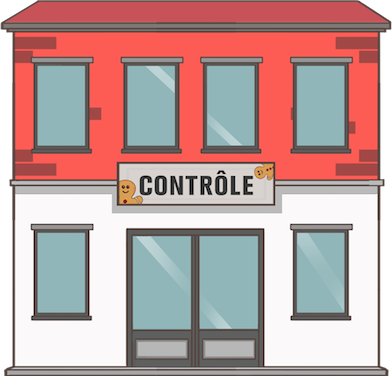
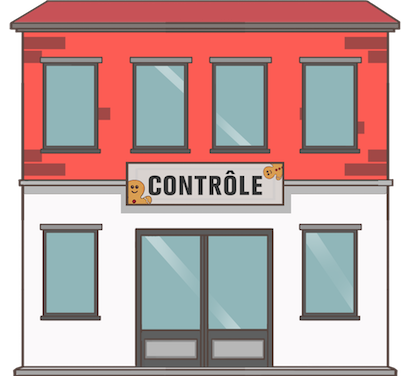
Place et déplace les batiments en fonction de l'avancée.

diff --git a/src/situations/accueil/vues/accueil.vue b/src/situations/accueil/vues/accueil.vue
@@ -6,7 +6,7 @@
     </div>
     <div
       :style="{ 'background-image': fondAccueil, 'background-position-x': position }"
-      class="acces-situations">
+      class="accueil-scene">
 
       <div
         :style="{ 'background-image': personnages }"
@@ -14,11 +14,16 @@
         :class="[deplacePersonnage]"
       ></div>
 
-      <acces-situation
-        v-for="situation in situations"
-        :key="situation.identifiant"
-        :situation="situation"
-      />
+      <div
+        :style="{ transform: `translateX(${-decalageGaucheVue(niveauActuel)}px)`}"
+        class="acces-situations">
+        <acces-situation
+          v-for="(situation, index) in situations"
+          :key="situation.identifiant"
+          :situation="situation"
+          :style="{ left: `${decalageGaucheBatiment(index)}px`}"
+         />
+      </div>
 
       <formulaire-identification :force-campagne="forceCampagne" />
     </div>
@@ -26,12 +31,17 @@
 </template>
 
 <script>
-import { mapState } from 'vuex';
+import { mapState, mapGetters } from 'vuex';
 import 'accueil/styles/accueil.scss';
 import FormulaireIdentification from './formulaire_identification';
 import AccesSituation from 'accueil/vues/acces_situation';
 import Progression from 'accueil/vues/progression';
 import BoiteUtilisateur from 'commun/vues/boite_utilisateur';
+
+const LARGEUR_SCENE = 1008;
+const LARGEUR_BATIMENT = 411;
+const DECALAGE_INITIAL = LARGEUR_SCENE / 2 - LARGEUR_BATIMENT / 2;
+const ESPACEMENT_BATIMENT = (LARGEUR_SCENE - 1.5 * LARGEUR_BATIMENT) / 2;
 
 export default {
   components: { FormulaireIdentification, AccesSituation, Progression, BoiteUtilisateur },
@@ -49,7 +59,8 @@ export default {
 
 
   computed: {
-    ...mapState(['situations', 'estConnecte'])
+    ...mapState(['situations', 'estConnecte']),
+    ...mapGetters(['niveauActuel'])
   },
 
   mounted () {
@@ -64,11 +75,19 @@ export default {
 
   methods: {
     synchroniseSituations () {
-      if(this.estConnecte) this.$store.dispatch('synchroniseSituations');
+      if (this.estConnecte) this.$store.dispatch('synchroniseSituations');
     },
 
     deplacePersonnage () {
-      if(this.$store.getters.niveauActuel > 1) return 'centre-personnage'
+      if (this.$store.getters.niveauActuel > 1) return 'centre-personnage'
+    },
+
+    decalageGaucheBatiment (index) {
+      return DECALAGE_INITIAL + index * (LARGEUR_BATIMENT + ESPACEMENT_BATIMENT);
+    },
+
+    decalageGaucheVue (niveau) {
+      return (niveau - 1) * (LARGEUR_BATIMENT + ESPACEMENT_BATIMENT);
     },
 
     deplacefond () {

diff --git a/tests/situations/accueil/vues/accueil.js b/tests/situations/accueil/vues/accueil.js
@@ -53,6 +53,25 @@ describe('La vue accueil', function () {
     expect(wrapper.vm.personnages).to.eql('url(personnages)');
   });
 
+  it("donne le décalage a gauche d'une situation", function () {
+    const wrapper = shallowMount(Accueil, {
+      localVue,
+      store
+    });
+    expect(wrapper.vm.decalageGaucheBatiment(0)).to.equal(298.5);
+    expect(wrapper.vm.decalageGaucheBatiment(1)).to.equal(298.5 + 411 + 195.75);
+    expect(wrapper.vm.decalageGaucheBatiment(2)).to.equal(298.5 + (411 + 195.75) * 2);
+  });
+
+  it('donne le déplacement à gauche de la vue', function () {
+    const wrapper = shallowMount(Accueil, {
+      localVue,
+      store
+    });
+    expect(wrapper.vm.decalageGaucheVue(1)).to.equal(0);
+    expect(wrapper.vm.decalageGaucheVue(2)).to.equal(411 + 195.75);
+  });
+
   it("synchronise les situations quand un utilisateur affiche l'accueil en étant connecté", function (done) {
     store.dispatch = (evenement) => {
       expect(evenement).to.eql('synchroniseSituations');

diff --git a/src/situations/accueil/styles/acces_situation.scss b/src/situations/accueil/styles/acces_situation.scss
@@ -3,44 +3,12 @@
   position: absolute;
   font-size: 0;
   background: center / contain no-repeat;
+  width: 411px;
+  height: 382px;
+  bottom: 0px;
 
   &:hover {
     filter: drop-shadow(0 0 20px white);
-  }
-
-  &.centre {
-    width: 335px;
-    height: 382px;
-    left: 336px;
-    top: 120px;
-  }
-
-  &.tri {
-    width: 334px;
-    height: 380px;
-    left: 140px;
-    top: 120px;
-  }
-
-  &.inventaire {
-    width: 365px;
-    height: 400px;
-    left: 882px;
-    top: 109px;
-  }
-
-  &.controle {
-    width: 365px;
-    height: 374px;
-    left: 494px;
-    top: 138px;
-  }
-
-  &.questions {
-    width: 375px;
-    height: 370px;
-    left: 1269px;
-    top: 131px;
   }
 
   &.desactivee {

diff --git a/src/situations/accueil/styles/accueil.scss b/src/situations/accueil/styles/accueil.scss
@@ -17,12 +17,18 @@
     }
   }
 
-  .acces-situations {
+  .accueil-scene {
     @include bords-arrondis;
     @include ombre;
     height: 35.375rem;
     position: relative;
     background-repeat: no-repeat;
+  }
+
+  .acces-situations {
+    position: absolute;
+    bottom: 70px;
+    transition: transform 1s;
   }
 
   .progression {
